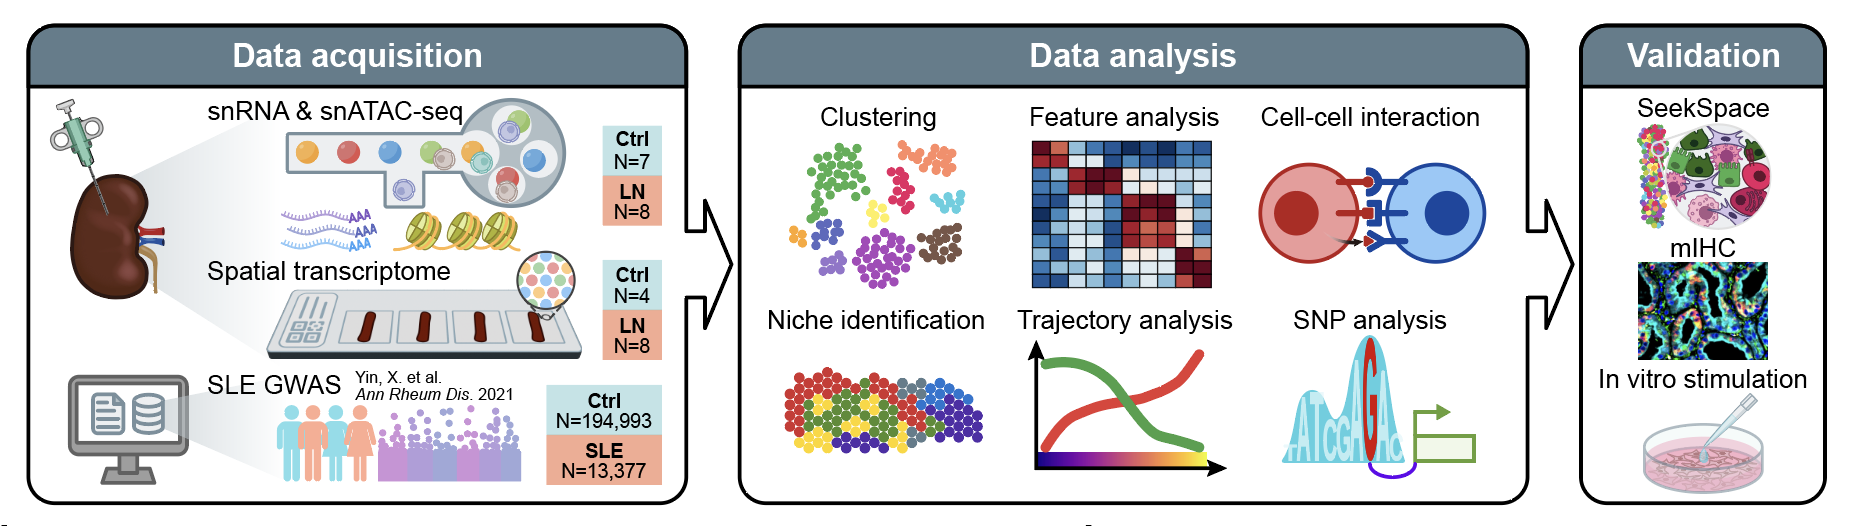
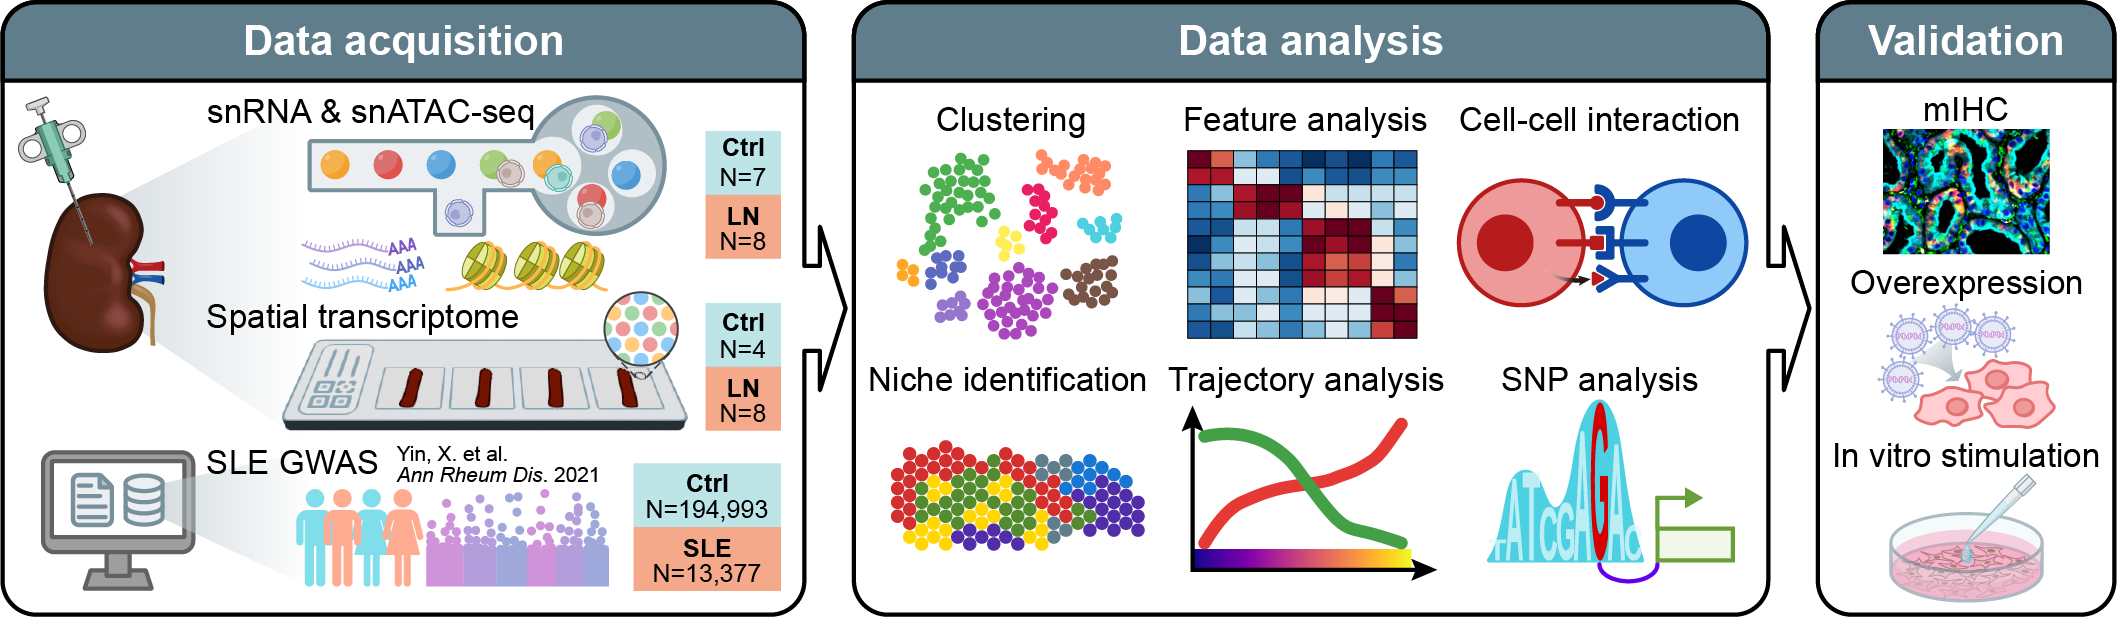
更新论文信息

diff --git a/index.html b/index.html
@@ -80,8 +80,8 @@
                 <li>Integrating computational and biochemical approaches to study biological macromolecules</li>
             </ul>
             <div class="contact-info">
-                <span><i class="fa fa-envelope"></i> [email redacted]</span>
-                <span><i class="fa fa-commenting"></i> WeChat: za15712164578</span>
+                <span><i class="fa fa-envelope"></i> [email redacted]</span>
+                <span><i class="fa fa-commenting"></i> WeChat: _Ao0O0oZ_</span>
                 <span><i class="fa fa-github"></i> <a href="https://github.com/Ao0O0oZ" target="_blank" rel="noopener">github.com/Ao0O0oZ</a></span>
             </div>
         </div>
@@ -96,24 +96,68 @@
 
             <div class="pub-item">
                 <div class="pub-content">
-                    <p class="pub-authors">Wang J<sup>*</sup>, <strong>Zheng A</strong><sup>*</sup>, Nianping Liu<sup>*</sup>, <em>et al.</em></p>
-                    <p class="pub-title">Integrative spatial multi-omics analysis reveals regulatory mechanisms of VCAM1<sup>+</sup> proximal tubule cells in lupus nephritis.</p>
-                    <p class="pub-journal"><em>Annals of the Rheumatic Diseases</em> &mdash; Under revision</p>
-                    <span class="pub-badge">Co-first Author</span>
+                    <p class="pub-authors">Cheng J<sup>*</sup>, Liu L<sup>*</sup>, <em>et al.</em>, <strong>Zheng A</strong>, <em>et al.</em></p>
+                    <p class="pub-title">rRNA intermediates associate with nucleolar reshaping in <em>C. elegans</em>.</p>
+                    <p class="pub-journal"><em>Nucleic Acids Research</em>. 2026</p>
+                    <span class="pub-badge-co">Co-author</span>
                 </div>
                 <div class="pub-image">
-                    <img src="images/publication-images/pub_1.png" alt="Publication figure: lupus nephritis spatial omics">
+                    <a href="https://academic.oup.com/nar/article/54/11/gkag598/8710946" target="_blank" rel="noopener">
+                        <img src="images/publication-images/pub_3.png">
+                    </a>
                 </div>
             </div>
 
             <div class="pub-item">
                 <div class="pub-content">
-                    <p class="pub-authors">Zongcheng Yang, Xinfeng Yao, <em>et al.</em>, <strong>Ao Zheng</strong> <em>et al.</em></p>
-                    <p class="pub-title">Single-cell spatial multi-omics reveals the spatiotemporal mechanisms of malignant transformation in oral mucosal epithelium.</p>
-                    <p class="pub-journal">In preparation</p>
-                    <span class="pub-badge pub-badge-prep">Co-author</span>
+                    <p class="pub-authors">Zhu L<sup>*</sup>, <em>et al.</em>, <strong>Zheng A</strong>, <em>et al.</em></p>
+                    <p class="pub-title">Single-cell landscape of immune cells in multiple autoimmune diseases.</p>
+                    <p class="pub-journal"><em>iScience</em>. 2025</p>
+                    <span class="pub-badge-co">Co-author</span>
                 </div>
-                <div class="pub-image"></div>
+                <div class="pub-image">
+                    <a href="https://www.cell.com/iscience/fulltext/S2589-0042(25)02776-2" target="_blank" rel="noopener">
+                        <img src="images/publication-images/pub_2.png">
+                    </a>
+                </div>
+            </div>
+
+            <div class="pub-item">
+                <div class="pub-content">
+                    <p class="pub-authors">Wang J<sup>*</sup>, <strong>Zheng A</strong><sup>*</sup>, Nianping Liu<sup>*</sup>, <em>et al.</em></p>
+                    <p class="pub-title">Integrative spatial multi-omics analysis reveals regulatory mechanisms of VCAM1<sup>+</sup> proximal tubule cells in lupus nephritis.</p>
+                    <p class="pub-journal"><em>Annals of the Rheumatic Diseases</em>. 2025</p>
+                    <span class="pub-badge-first">Co-first Author</span>
+                </div>
+                <div class="pub-image">
+                    <a href="https://www.sciencedirect.com/science/article/pii/S0003496725043158" target="_blank" rel="noopener">
+                        <img src="images/publication-images/pub_1.png">
+                    </a>
+                </div>
+            </div>
+
+            <div class="pub-item">
+                <div class="pub-content">
+                    <p class="pub-authors">Yang Z<sup>*</sup>, Yao X<sup>*</sup>, Deng W<sup>*</sup>, <em>et al.</em>, <strong>Zheng A</strong>, <em>et al.</em></p>
+                    <p class="pub-title">Single-cell spatial multi-omics reveals the spatiotemporal mechanisms of malignant transformation in oral mucosal epithelium.</p>
+                    <p class="pub-journal">Under review at <em>Nature</em></p>
+                    <span class="pub-badge-co">Co-author</span>
+                </div>
+                <div class="pub-image">
+                    <img src="images/publication-images/pub_a.png">
+                </div>
+            </div>
+
+            <div class="pub-item">
+                <div class="pub-content">
+                    <p class="pub-authors">Li S<sup>*</sup>, Hou Y<sup>*</sup>, Zhao B<sup>*</sup>, <em>et al.</em>, <strong>Zheng A</strong>, <em>et al.</em></p>
+                    <p class="pub-title">Single-cell parallel RNA and ecDNA sequencing reveals ecDNA-shaped phenotypic evolution in glioblastoma.</p>
+                    <p class="pub-journal">Submitted to <em>Nature Genetics</em></p>
+                    <span class="pub-badge-co">Co-author</span>
+                </div>
+                <div class="pub-image">
+                    <img src="images/publication-images/pub_b.png">
+                </div>
             </div>
 
         </div>

diff --git a/css/academic.css b/css/academic.css
@@ -292,13 +292,13 @@ a:hover { text-decoration: underline; }
 
 .pub-item {
     display: flex;
-    gap: 1.75rem;
+    gap: 1.5rem;
     align-items: flex-start;
     background: var(--bg);
     border: 1px solid var(--border);
     border-left: 4px solid var(--blue);
     border-radius: 0 6px 6px 0;
-    padding: 1.5rem;
+    padding: 1.25rem;
     transition: box-shadow 0.2s;
 }
 
@@ -306,7 +306,7 @@ a:hover { text-decoration: underline; }
     box-shadow: 0 4px 16px rgba(0, 0, 0, 0.07);
 }
 
-.pub-content { flex: 1; }
+.pub-content { flex: 1.25; }
 
 .pub-authors {
     font-size: 0.875rem;
@@ -328,7 +328,19 @@ a:hover { text-decoration: underline; }
     margin-bottom: 0.8rem;
 }
 
-.pub-badge {
+.pub-badge-first {
+    display: inline-block;
+    background: var(--accent);
+    color: white;
+    font-size: 0.72rem;
+    font-weight: 700;
+    letter-spacing: 0.06em;
+    text-transform: uppercase;
+    padding: 2px 10px;
+    border-radius: 3px;
+}
+
+.pub-badge-co {
     display: inline-block;
     background: var(--blue);
     color: white;
@@ -339,8 +351,6 @@ a:hover { text-decoration: underline; }
     padding: 2px 10px;
     border-radius: 3px;
 }
-
-.pub-badge-prep { background: var(--accent); }
 
 .pub-image {
     flex: 1;

diff --git a/HOWTO.md b/HOWTO.md
@@ -27,7 +27,7 @@ homepage/
 修改文件后，在浏览器直接打开本地文件即可预览，**不需要安装任何服务器**：
 
 ```bash
-open /Users/aozheng/Downloads/homepage/index.html
+open ./index.html
 ```
 
 每次保存文件后，在浏览器按 `Cmd+R` 刷新即可看到最新效果。
@@ -41,7 +41,7 @@ open /Users/aozheng/Downloads/homepage/index.html
 本地改好、预览满意后，执行以下命令发布：
 
 ```bash
-cd /Users/aozheng/Downloads/homepage
+cd /pathto/homepage
 
 # 1. 暂存所有改动
 git add -A